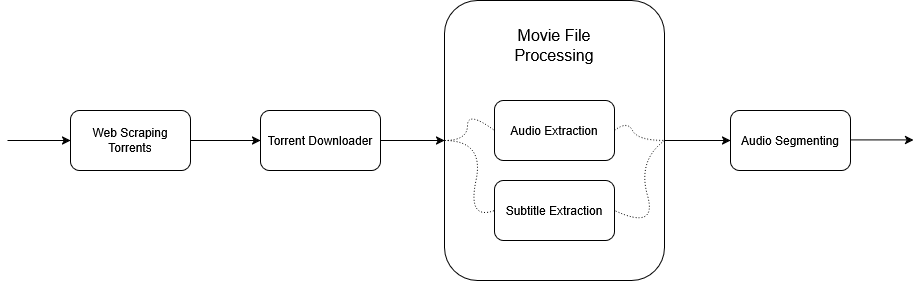
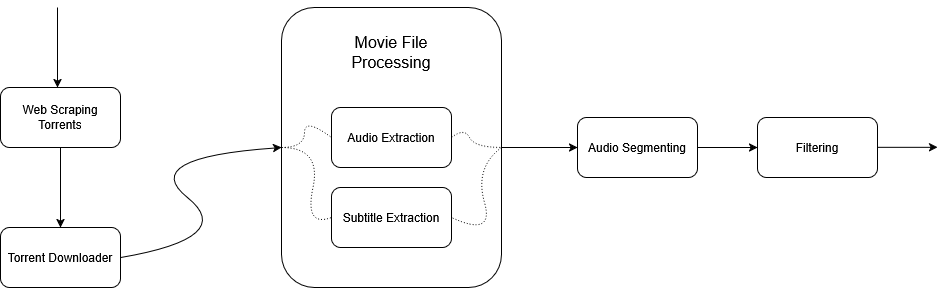
doc: updated latest changes

diff --git a/docs/readmes/03_data_pipeline.md b/docs/readmes/03_data_pipeline.md
@@ -88,6 +88,18 @@ There are typically three subtitle types present:
 
 We extract only the normal subtitles for a cleaner transcript.
 
+### Subtitle Text Cleaning
+
+Once subtitles are extracted, we apply a text preprocessing pipeline to standardize the content:
+
+Remove HTML tags
+- Replace leading hyphens (e.g., in dialogue lines)
+- Normalize whitespace (e.g., multiple spaces → single space)
+- Convert text to lowercase
+- Split text into sentences using punctuation (`.`, `!`, `?`)
+- Remove all punctuation except apostrophes
+- Remove non-textual characters (e.g., music notes, symbols)
+
 ## Audio Segmenting
 
 To prepare our data for machine learning, we need to split the full-length movie audio (typically 2–3 hours) into smaller, manageable segments, ideally **30 to 45** seconds of continuous speech paired with their corresponding subtitles.
@@ -145,6 +157,22 @@ In contrast, movie audio is far more complex and varied:
 - No clear separation like that found in musical tracks
 
 As a result, the models couldn't generalize to our use case. The **data distribution** was too different from their training data.
+
+## Filtering
+
+After segmenting, we applied a cleanup process to ensure that only meaningful audio-text pairs remained.
+
+### Text Filtering
+
+- Segments with **fewer than 15** words in the corresponding subtitle file were discarded.
+
+- These usually lacked substantial dialogue and did not provide useful data for training.
+
+### Audio Filtering
+
+- `.wav` files shorter than **10 seconds** were also removed.
+
+- These short clips often came from edge cases, such as the very beginning or end of a movie, and typically contained incomplete or irrelevant audio.
 
 ## Final Data Pipeline Graph
 
